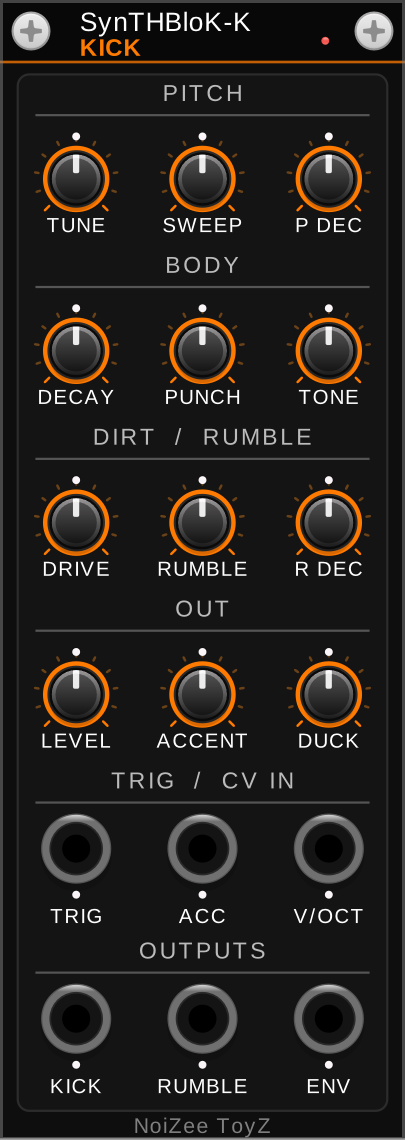
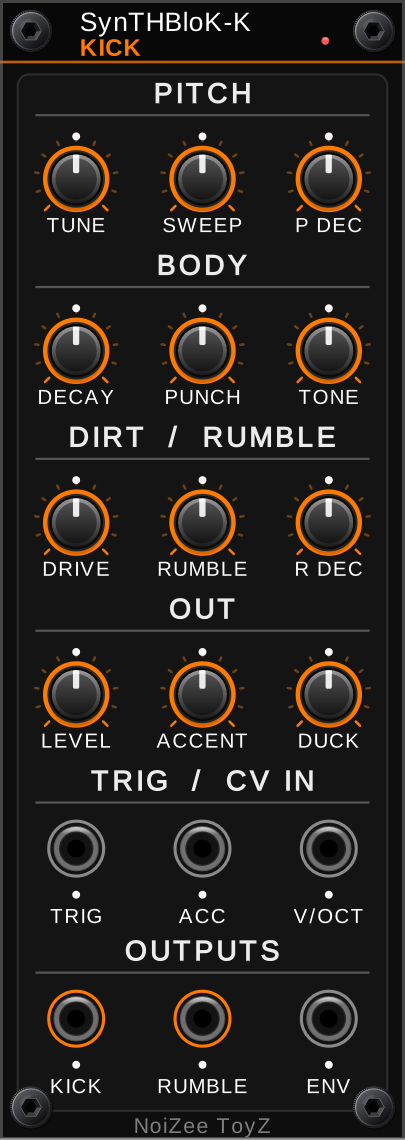
KICK 2.1.1: new jack rings (audio in gold, out orange, others grey) + bolder section headers
Claude-Session: https://claude.ai/code/session_0118GTBMnkcZFkLwi5NoL91P

diff --git a/src/plugin.hpp b/src/plugin.hpp
@@ -1,5 +1,6 @@
 #pragma once
 #include "rack.hpp"
+#include <set>
 
 using namespace rack;
 
@@ -44,15 +45,43 @@ extern Model* modelSynTHBloKLoop;
 extern Model* modelSynTHBloKMtxQuad;
 extern Model* modelSynTHBloKDualFilter;
 extern Model* modelSynTHBloKRandroyd;
+extern Model* modelNoizeePatchGen;
+// the module ids PATCH GEN placed (src/NoizeePatchGen.cpp): RANDROYD never patches into them
+std::set<int64_t>& patchGenOwned();
+// ONE RIG: set by a RANDROYD in the rack; PATCH GEN calls it so its patch packs into RANDROYD's rig
+#include <functional>
+std::function<void(history::ComplexAction*)>& randroydPackHook();
 
 // VCV-size jack (23.7 px, the same as Rack's PJ301M): black body with a silver ring.
 // Used on every module but the JAM and MIX-24.
-struct BlackJack : app::SvgPort {
-    BlackJack() { setSvg(APP->window->loadSvg(asset::plugin(pluginInstance, "res/JackBlackSilver.svg"))); }
+// JACK RINGS (Nov 26 2026, Nick): every jack draws its own ring, one size on every module, coloured by what it carries
+// (src/JackRings.hpp: audio in gold, audio out orange, the rest grey). Panels no longer draw jack rings.
+#include "JackRings.hpp"
+struct RingPort : app::SvgPort {
+    int ringKind = -1;   // resolved lazily in draw(): Rack -t screenshots and browser previews draw before any step()
+    void resolveRing() {  // (Gemini review, Nov 26): module may be null there, the ModuleWidget's model is set by then
+        app::ModuleWidget* mw = getAncestorOfType<app::ModuleWidget>();
+        if (mw && mw->model) ringKind = jackrings::kindOf(mw->model->slug, type == engine::Port::OUTPUT, portId);
+    }
+    void draw(const DrawArgs& args) override {
+        app::SvgPort::draw(args);   // jack + its shadow first, so the ring stays crisp (it clears the 2.5 mm jack body)
+        if (ringKind < 0) resolveRing();
+        nvgBeginPath(args.vg);
+        nvgCircle(args.vg, box.size.x * 0.5f, box.size.y * 0.5f, mm2px(jackrings::RING_R_MM));
+        nvgStrokeWidth(args.vg, mm2px(jackrings::RING_W_MM));
+        nvgStrokeColor(args.vg, jackrings::colour(ringKind < 0 ? jackrings::GREY : (jackrings::Kind)ringKind));
+        nvgStroke(args.vg);
+    }
+};
+
+struct BlackJack : RingPort {
+    // (Nov 14 2026, Nick: "make all the jacks match small jacks": every module's jacks are the 5.2 mm small jack now; the
+    // 8 mm black / silver art stays in res/ in case it comes back. Jacks are placed by their centre, so they stay put.)
+    BlackJack() { setSvg(APP->window->loadSvg(asset::plugin(pluginInstance, "res/JackSmall.svg"))); }
 };
 
 // Small version of BlackJack (5.2 mm), for the JAM and MIX-24 modules.
-struct SmallJack : app::SvgPort {
+struct SmallJack : RingPort {
     SmallJack() { setSvg(APP->window->loadSvg(asset::plugin(pluginInstance, "res/JackSmall.svg"))); }
 };
 

diff --git a/src/JackRings.hpp b/src/JackRings.hpp
@@ -1,0 +1,60 @@
+#pragma once
+// JACK RINGS (Nov 26 2026, Nick): every jack gets ONE ring, same size on every module (r 3.1 mm, line 0.35 mm, the old
+// STEREO PHASER CV ring), coloured by what it carries: audio IN gold #f2b632, audio OUT orange #ff7a00, everything else
+// grey #8a8a8a. Drawn by the jack widget (BlackJack / SmallJack in plugin.hpp); panels no longer draw jack rings.
+// The table lists only AUDIO ports (enum index = configInput / configOutput order); anything not listed is grey.
+// Sidechain inputs count as audio, FM inputs do not (Nick, Nov 26). Keyed by model slug (same in the paid plugin and singles).
+#include <rack.hpp>
+#include <string>
+#include <vector>
+#include <cstring>
+
+namespace jackrings {
+struct Entry { const char* slug; std::vector<int> in, out; };
+inline const std::vector<Entry>& table() {
+    static const std::vector<Entry> t = {
+        {"MatrixForge", {0,1}, {0,1}},
+        {"Duo", {3,4}, {0,1,2,3}},
+        {"Drum", {3,4}, {0,1,10,11,12,13,14,15,16,17,28,29}},
+        {"MtxQuad", {9,11}, {0,1,2,3,5,6,7,8,9}},
+        {"Quad", {9,11}, {0,1,2,3,5,6,7,8,9}},
+        {"MatrixFx", {0,1,2,3,4,5,6,7,11}, {0,1}},
+        {"Echo", {0,1}, {0,1}},
+        {"Loop", {0,1,2,3,4,5,6,7}, {0,1,2,3,4,5,6,7,8,9}},
+        {"GlitchEcho", {0,1}, {0,1}},
+        {"Grit", {0,1}, {0,1}},
+        {"Stereo", {0}, {0,1}},
+        {"Matrix8", {}, {17,18}},
+        {"Kick", {}, {0,1}},
+        {"SnareHat", {}, {0,1,2}},
+        {"Resonator", {4,5}, {0,1,3}},
+        {"Poly", {}, {0,1}},
+        {"Pulse", {}, {0}},
+        {"DualFilter", {0,1}, {0,1,2,3}},
+        {"NoizeeFlagshipFilter", {16,17}, {0,1}},
+        {"FX", {9,10}, {0,1,2}},
+        {"GrainForge", {0,1}, {0,1}},
+        {"BlokMaster", {0,1,2}, {0,1}},
+        {"Mix24", {6,7,8,9,10,11,12,13,14,15,16,17,18,19}, {0,1,2,3}},
+        {"Mix8", {6,7,8,9,10,11,12,13,14,15,16,17,18,19,20,21,22,23}, {0,1,2,3}},
+        {"Mix12", {6,7,8,9,10,11,12,13,14,15,16,17,18,19,20,21,22,23,24,25,26,27,28,29,30,31}, {0,1,2,3}},
+        {"ToyBox", {}, {3,4}},
+    };
+    return t;
+}
+enum Kind { GREY = 0, AUDIO_IN = 1, AUDIO_OUT = 2 };
+inline Kind kindOf(const std::string& slug, bool out, int id) {
+    for (const Entry& e : table()) {
+        if (slug != e.slug) continue;
+        for (int v : (out ? e.out : e.in)) if (v == id) return out ? AUDIO_OUT : AUDIO_IN;
+        return GREY;
+    }
+    return GREY;
+}
+inline NVGcolor colour(Kind k) {
+    if (k == AUDIO_IN)  return nvgRGB(0xf2, 0xb6, 0x32);
+    if (k == AUDIO_OUT) return nvgRGB(0xff, 0x7a, 0x00);
+    return nvgRGB(0x8a, 0x8a, 0x8a);
+}
+constexpr float RING_R_MM = 3.1f, RING_W_MM = 0.35f;
+}  // namespace jackrings
